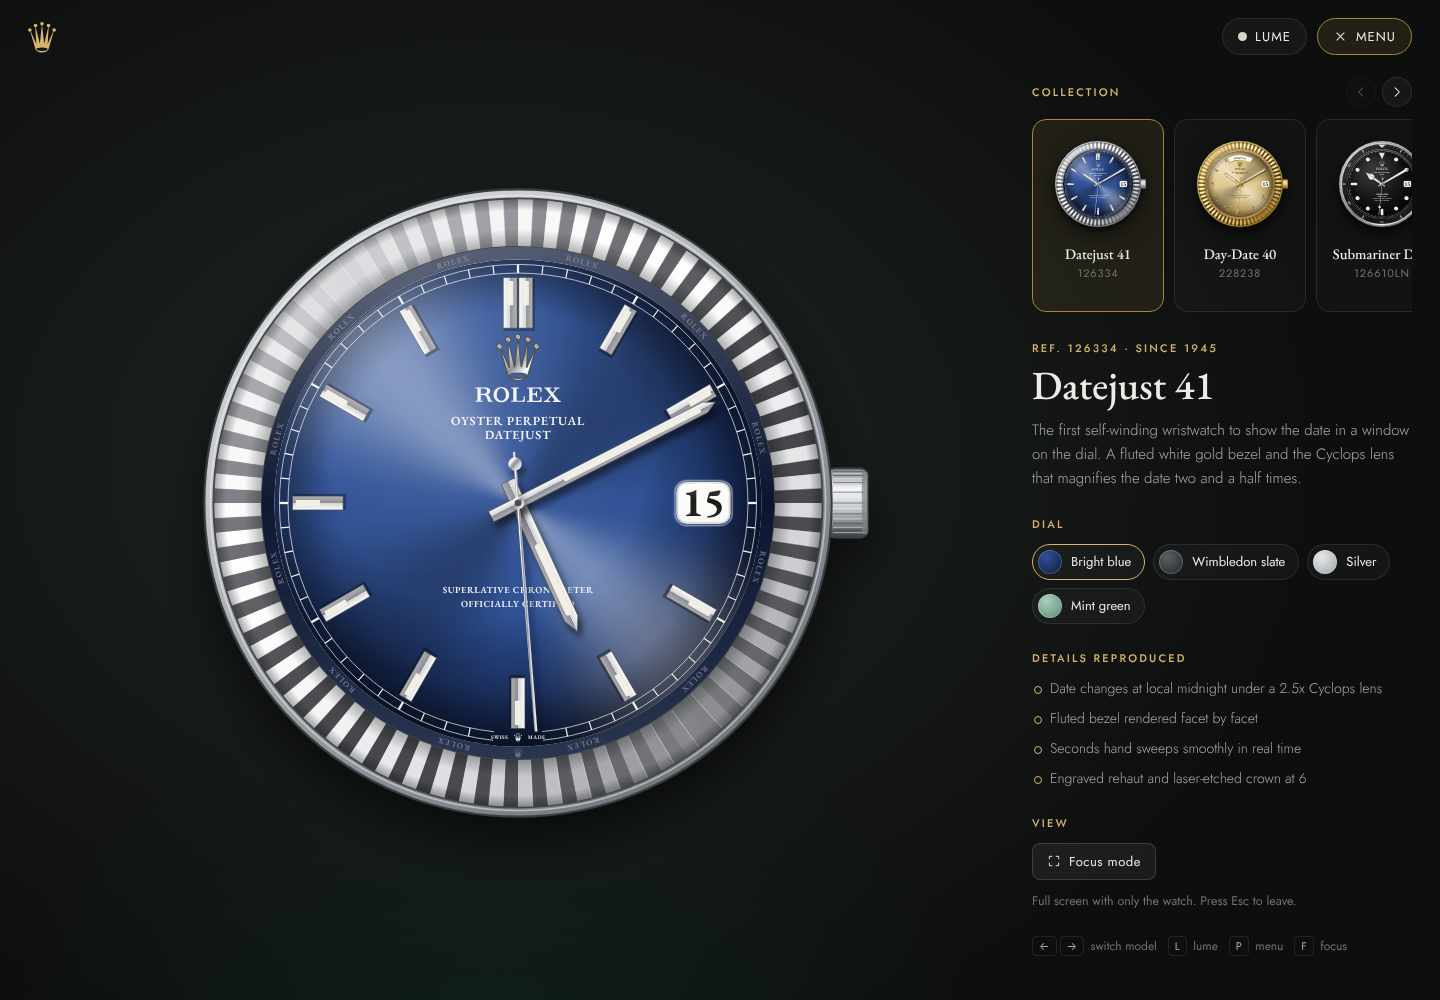
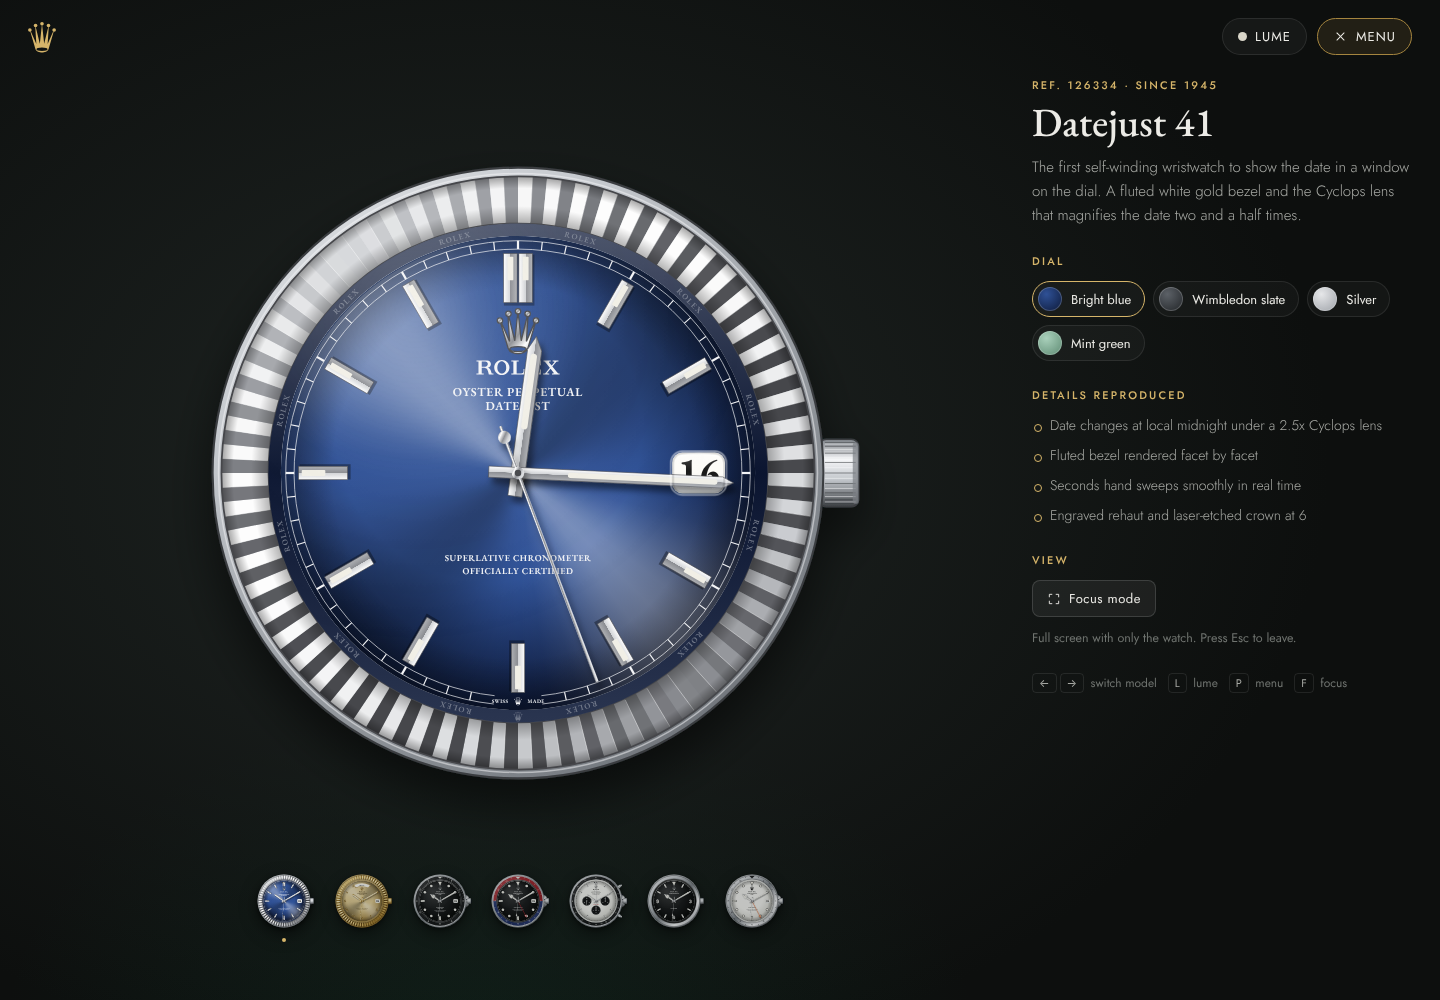
Move the model carousel under the watch and animate model switches
- Mini watch faces sit below the main watch; hovering enlarges one and
  shows its name, and a gold dot marks the watch on display.
- Switching models fades the old watch out, fades the new one in and
  sweeps its hands to the current time (skipped with reduced motion).

Claude-Session: https://claude.ai/code/session_01MR7uiZKYXyyZxiVebD44dd

diff --git a/styles.css b/styles.css
@@ -105,12 +105,12 @@ button { font: inherit; color: inherit; cursor: pointer; }
 .stage {
   position: sticky; top: 0;
   display: flex; flex-direction: column; align-items: center;
-  min-height: calc(100vh - 140px);
+  min-height: calc(100vh - 80px);
   justify-content: center;
 }
 .watch { width: 100%; display: flex; justify-content: center; }
 .watch-svg {
-  height: min(78vh, 760px);
+  height: min(calc(100vh - 220px), 740px);
   width: auto;
   transition: height .45s ease;
   max-width: 100%;
@@ -161,35 +161,52 @@ body.night .watch-svg .glare { opacity: .3; }
   padding: 4px 0 28px;
   display: flex; flex-direction: column; gap: 26px;
 }
-.carousel { display: flex; flex-direction: column; gap: 12px; }
-.carousel-head { display: flex; align-items: center; justify-content: space-between; }
-.carousel-nav { display: flex; gap: 6px; }
+/* model carousel: mini watch faces under the main watch */
+.carousel { display: flex; align-items: center; justify-content: center; gap: 6px; width: 100%; max-width: 760px; margin-top: 4px; }
 .arrow {
-  width: 30px; height: 30px; border-radius: 50%; display: grid; place-items: center;
+  flex: none; width: 30px; height: 30px; border-radius: 50%; display: none; place-items: center;
   background: rgba(255, 255, 255, .04); border: 1px solid var(--line); transition: background .2s, opacity .2s;
 }
+.carousel.overflowing .arrow { display: grid; }
 .arrow:hover:not(:disabled) { background: rgba(255, 255, 255, .1); }
 .arrow:disabled { opacity: .3; cursor: default; }
 .carousel-track {
-  display: flex; gap: 10px; overflow-x: auto; scroll-snap-type: x mandatory;
-  scrollbar-width: none; padding-bottom: 2px; overscroll-behavior-x: contain;
+  display: flex; gap: 14px; overflow-x: auto; scroll-snap-type: x proximity; min-width: 0;
+  /* room above for the enlarged face and below for its name */
+  padding: 22px 34px 30px; scrollbar-width: none; overscroll-behavior-x: contain;
 }
 .carousel-track::-webkit-scrollbar { display: none; }
+.carousel-track > :first-child { margin-left: auto; }
+.carousel-track > :last-child { margin-right: auto; }
 .model-card {
-  flex: 0 0 132px; scroll-snap-align: start;
-  display: flex; flex-direction: column; align-items: center; gap: 3px;
-  padding: 12px 8px 12px; text-align: center;
-  background: rgba(255, 255, 255, .025); border: 1px solid var(--line); border-radius: 14px;
-  transition: border-color .2s, background .2s;
+  position: relative; flex: none; scroll-snap-align: center;
+  background: none; border: 0; padding: 0; border-radius: 50%;
 }
-.model-card:hover { background: rgba(255, 255, 255, .06); }
-.model-card.active { border-color: var(--gold); background: rgba(165, 133, 63, .12); }
-.model-card .thumb { display: block; margin-bottom: 6px; }
-.model-card img { width: 104px; height: 104px; display: block; filter: drop-shadow(0 6px 10px rgba(0, 0, 0, .5)); transition: transform .3s ease; }
-.model-card:hover img { transform: scale(1.04); }
-.model-card .mname { font-size: 14.5px; line-height: 1.2; }
+.model-card img {
+  width: 64px; height: 64px; display: block;
+  filter: drop-shadow(0 5px 8px rgba(0, 0, 0, .55));
+  transform-origin: 50% 70%; transition: transform .28s cubic-bezier(.2, .8, .2, 1), opacity .2s;
+  opacity: .78;
+}
+.model-card:hover img, .model-card:focus-visible img { transform: scale(1.38); opacity: 1; }
+.model-card.active img { opacity: 1; }
+.model-card:focus-visible { outline: none; }
+/* gold dot marks the watch on display */
+.model-card::after {
+  content: ''; position: absolute; left: 50%; bottom: -9px; width: 4px; height: 4px; margin-left: -2px;
+  border-radius: 50%; background: var(--gold-hi); opacity: 0; transition: opacity .2s;
+}
+.model-card.active::after { opacity: 1; }
+.model-card .mname {
+  position: absolute; left: 50%; top: calc(100% + 14px); transform: translate(-50%, -4px);
+  white-space: nowrap; font-size: 13px; letter-spacing: .02em; color: var(--ink);
+  opacity: 0; pointer-events: none; transition: opacity .2s, transform .28s ease;
+}
+.model-card:hover .mname, .model-card:focus-visible .mname { opacity: 1; transform: translate(-50%, 0); }
+.model-card:hover::after, .model-card:focus-visible::after { opacity: 0; }
+body.night .carousel { opacity: .45; transition: opacity .6s; }
+body.focus .carousel { display: none; }
 .mname { font-family: var(--serif); font-size: 16px; font-weight: 500; }
-.mref { font-size: 11px; color: var(--ink-3); letter-spacing: .08em; }
 
 .eyebrow {
   margin: 0; font-size: 11px; font-weight: 500; letter-spacing: .2em; text-transform: uppercase; color: var(--gold-hi);
@@ -249,7 +266,7 @@ kbd {
 .panel { transition: opacity .3s ease; }
 body.panel-collapsed .layout { grid-template-columns: minmax(0, 1fr) 0px; gap: 0; }
 body.panel-collapsed .panel { opacity: 0; visibility: hidden; overflow: hidden; }
-body.panel-collapsed .watch-svg { height: min(calc(100vh - 110px), calc(100vw - 56px)); }
+body.panel-collapsed .watch-svg { height: min(calc(100vh - 220px), calc(100vw - 56px)); }
 @media (min-width: 981px) { .panel > * { min-width: 380px; } }
 
 /* focus mode hides everything but the watch */
@@ -267,4 +284,19 @@ body.focus .watch-svg { height: 88vh; }
   .watch-svg { height: auto; width: min(100%, 520px); max-height: 70vh; }
   .topbar { padding: 14px 16px; }
   .model-head h1 { font-size: 32px; }
+}
+
+/* model switch transition */
+@keyframes watch-in {
+  from { opacity: 0; transform: scale(1.05); filter: blur(4px); }
+  to { opacity: 1; transform: none; filter: none; }
+}
+.watch-svg.entering { animation: watch-in .6s cubic-bezier(.2, .8, .2, 1); }
+.watch-svg.leaving {
+  opacity: 0; transform: scale(.94); filter: blur(3px);
+  transition: opacity .24s ease, transform .24s ease, filter .24s ease;
+}
+@media (prefers-reduced-motion: reduce) {
+  .watch-svg.entering { animation: none; }
+  .model-card img, .model-card .mname { transition: none; }
 }

diff --git a/js/app.js b/js/app.js
@@ -82,7 +82,25 @@
   }
 
   /* ---------- render ---------- */
-  function render() {
+  // Switching models fades the old watch out, then brings the new one in with
+  // its hands sweeping from 12 to the current time. The two never overlap, since
+  // both SVGs use the same gradient ids.
+  const reduceMotion = window.matchMedia && matchMedia('(prefers-reduced-motion: reduce)').matches;
+  const OUT_MS = 240, HANDS_MS = 1100;
+  let swapTimer = 0, introStart = 0;
+
+  function render(animate) {
+    const old = $('svg', els.stage);
+    clearTimeout(swapTimer);
+    if (animate && old && !reduceMotion) {
+      old.classList.add('leaving');
+      swapTimer = setTimeout(() => draw(true), OUT_MS);
+    } else {
+      draw(false);
+    }
+  }
+
+  function draw(intro) {
     const m = state.model;
     els.stage.innerHTML = R.build(m, state.variant);
     els.stage.dataset.model = m.id;
@@ -100,6 +118,7 @@
       (refs.hands[k] = refs.hands[k] || []).push(el);
     });
     state.lastDateKey = '';
+    if (intro) { svg.classList.add('entering'); introStart = performance.now(); }
     applyBezel();
     wireWatch(svg);
     renderPanel();
@@ -110,6 +129,11 @@
   function setHand(key, deg) {
     const list = refs.hands[key];
     if (!list) return;
+    if (introStart) {
+      const p = Math.min(1, (performance.now() - introStart) / HANDS_MS);
+      if (p >= 1) introStart = 0;
+      else deg *= 1 - Math.pow(1 - p, 3); // ease out
+    }
     for (const el of list) {
       const cx = el.dataset.cx, cy = el.dataset.cy;
       el.setAttribute('transform', (cx !== undefined ? `translate(${cx} ${cy}) ` : '') + `rotate(${deg.toFixed(3)})`);
@@ -304,9 +328,10 @@
   /* ---------- events ---------- */
   function selectModel(id, variantId) {
     const m = MODELS.find((x) => x.id === id) || MODELS[0];
+    const changed = m !== state.model;
     state.model = m;
     state.variant = m.variants.find((v) => v.id === (variantId || state.chosen[m.id])) || m.variants[0];
-    render();
+    render(changed);
   }
 
   /* ---------- model carousel ---------- */
@@ -344,8 +369,7 @@
   function buildCarousel() {
     els.models.innerHTML = MODELS.map((x) =>
       `<button class="model-card" data-id="${x.id}" aria-pressed="false" aria-label="${x.name}">
-        <span class="thumb"><img alt="" width="104" height="104" decoding="async"></span>
-        <span class="mname">${x.name}</span><span class="mref">${x.ref.replace('Ref. ', '')}</span></button>`).join('');
+        <img alt="" width="64" height="64" decoding="async"><span class="mname" aria-hidden="true">${x.name}</span></button>`).join('');
   }
 
   function updateCarousel() {
@@ -362,8 +386,10 @@
     });
     // keep the active card in view without scrolling the page itself
     if (active) {
-      const t = els.models, left = active.offsetLeft - t.offsetLeft, right = left + active.offsetWidth;
-      if (left < t.scrollLeft || right > t.scrollLeft + t.clientWidth) t.scrollTo({ left: left - 8, behavior: 'smooth' });
+      const t = els.models;
+      const left = active.getBoundingClientRect().left - t.getBoundingClientRect().left + t.scrollLeft;
+      const right = left + active.offsetWidth;
+      if (left < t.scrollLeft || right > t.scrollLeft + t.clientWidth) t.scrollTo({ left: left - 24, behavior: 'smooth' });
     }
     updateArrows();
   }
@@ -372,10 +398,13 @@
     const t = els.models;
     document.querySelector('.arrow[data-dir="-1"]').disabled = t.scrollLeft <= 2;
     document.querySelector('.arrow[data-dir="1"]').disabled = t.scrollLeft + t.clientWidth >= t.scrollWidth - 2;
+    // arrows only appear when the row is wider than the space for it
+    t.parentNode.classList.toggle('overflowing', t.scrollWidth > t.clientWidth + 2);
   }
 
   buildCarousel();
   els.models.addEventListener('scroll', updateArrows, { passive: true });
+  window.addEventListener('resize', updateArrows);
   document.querySelectorAll('.carousel .arrow').forEach((a) => a.addEventListener('click', () => {
     els.models.scrollBy({ left: +a.dataset.dir * els.models.clientWidth * 0.8, behavior: 'smooth' });
   }));
@@ -447,7 +476,7 @@
     const [id, v] = location.hash.replace('#', '').split('/');
     if (id) { const m = MODELS.find((x) => x.id === id); if (m) { state.model = m; state.variant = m.variants.find((x) => x.id === v) || m.variants[0]; } }
   }
-  window.addEventListener('hashchange', () => { fromHash(); render(); });
+  window.addEventListener('hashchange', () => { const prev = state.model; fromHash(); render(state.model !== prev); });
 
 
   // header crown mark

diff --git a/index.html b/index.html
@@ -25,20 +25,14 @@
   <main class="layout">
     <section class="stage" aria-live="off">
       <div id="watch" class="watch"></div>
+      <nav class="carousel" aria-label="Choose a model">
+        <button class="arrow" data-dir="-1" aria-label="Previous models"><svg viewBox="0 0 24 24" width="14" height="14" aria-hidden="true"><path d="M15 5l-7 7 7 7" fill="none" stroke="currentColor" stroke-width="1.8" stroke-linecap="round" stroke-linejoin="round"/></svg></button>
+        <div id="models" class="carousel-track"></div>
+        <button class="arrow" data-dir="1" aria-label="Next models"><svg viewBox="0 0 24 24" width="14" height="14" aria-hidden="true"><path d="M9 5l7 7-7 7" fill="none" stroke="currentColor" stroke-width="1.8" stroke-linecap="round" stroke-linejoin="round"/></svg></button>
+      </nav>
     </section>
 
     <aside id="panel" class="panel">
-      <section class="carousel" aria-label="Choose a model">
-        <div class="carousel-head">
-          <h2 class="eyebrow">Collection</h2>
-          <div class="carousel-nav">
-            <button class="arrow" data-dir="-1" aria-label="Previous models"><svg viewBox="0 0 24 24" width="14" height="14" aria-hidden="true"><path d="M15 5l-7 7 7 7" fill="none" stroke="currentColor" stroke-width="1.8" stroke-linecap="round" stroke-linejoin="round"/></svg></button>
-            <button class="arrow" data-dir="1" aria-label="Next models"><svg viewBox="0 0 24 24" width="14" height="14" aria-hidden="true"><path d="M9 5l7 7-7 7" fill="none" stroke="currentColor" stroke-width="1.8" stroke-linecap="round" stroke-linejoin="round"/></svg></button>
-          </div>
-        </div>
-        <div id="models" class="carousel-track"></div>
-      </section>
-
       <div class="model-head">
         <p id="model-ref" class="eyebrow"></p>
         <h1 id="model-name"></h1>

diff --git a/README.md b/README.md
@@ -36,7 +36,8 @@ It also works as-is on GitHub Pages (Settings > Pages > deploy from the `main` b
 
 ## Details
 
-- Open the menu to pick a model from a carousel of thumbnails. Each thumbnail shows the dial you last chose for that model.
+- Pick a model from the row of mini watch faces under the watch. Hover one to enlarge it and see its name. Each mini face shows the dial you last chose for that model.
+- Switching models fades the old watch out and the new one in, with its hands sweeping round to the current time.
 - The seconds hand sweeps smoothly in real time.
 - The date flips at local midnight under a Cyclops lens. The Day-Date spells out the day in the arc at 12.
 - The Submariner bezel only turns anticlockwise, in 120 clicks. Drag it, scroll over it, or use the buttons. It clicks.
